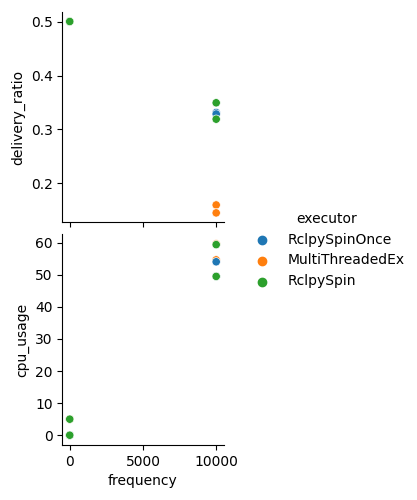
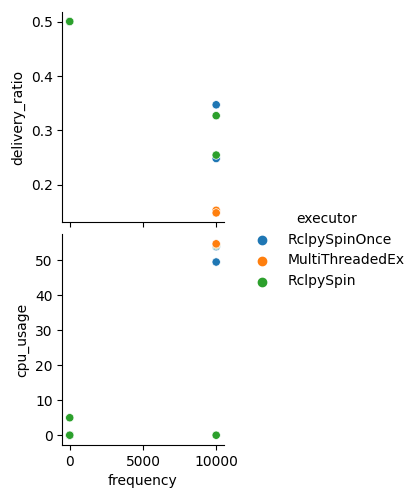
its more declerative to compare different message types

diff --git a/rclpy_listeners/instrumentation/measure.py b/rclpy_listeners/instrumentation/measure.py
@@ -12,17 +12,20 @@ import pandas as pd
 
 import rclpy
 
+from std_msgs.msg import String
+
+from custom_msgs.msg import NonStdString
+
 from rclpy_listeners.ex_multithreaded import MultiThreadedEx
 from rclpy_listeners.ex_rclpy_spin import RclpySpin
 from rclpy_listeners.ex_rclpy_spin_once import RclpySpinOnce
-from rclpy_listeners.subsc_custom_msg import CustomMsgSubscriber
-from rclpy_listeners.subsc_std_msg import StdMsgSubscriber
+from rclpy_listeners.subscriber_thread import Subscriber
 
 import seaborn as sns
 
 
-def run_listener(duration_s, args=None):
-    thread_listener = RclpySpin(StdMsgSubscriber, args=args)
+def run_listener(duration_s, MessageType, args=None):
+    thread_listener = RclpySpin(MessageType, args=args)
     thread_listener.start()
     time.sleep(duration_s)
     n_messages_received = thread_listener.get_received_messages()
@@ -33,31 +36,34 @@ def run_listener(duration_s, args=None):
     return n_messages_received
 
 
-def drain_queue(duration_s, args=None):
-    n_messages_received = run_listener(duration_s, args)
+def drain_queue(duration_s, MessageType, args=None):
+    n_messages_received = run_listener(duration_s, MessageType, args)
     while n_messages_received:
-        n_messages_received = run_listener(duration_s, args)
+        n_messages_received = run_listener(duration_s, MessageType, args)
     time.sleep(.1)
 
 
-def make_measurement(duration_s, rate_hz, Exec, Sub, args=None):
+def make_measurement(duration_s, rate_hz, Exec, MessageType, args=None):
     n_msgs_expected = duration_s * rate_hz
     PUBLISHER_RATIO = 2
     # PUBLISHER_RATIO x in case of loss
     n_msgs_send = PUBLISHER_RATIO * n_msgs_expected
-    if Sub == StdMsgSubscriber:
+    if MessageType == String:
         msg_type = 'std_msgs/msg/String'
-    elif Sub == CustomMsgSubscriber:
+    elif MessageType == NonStdString:
         msg_type = 'custom_msgs/msg/NonStdString'
     else:
         raise NotImplementedError
-    pub_command = f'ros2 topic pub -t {n_msgs_send} -w 0 -r {rate_hz} -p 0 /topic {msg_type}'
+    pub_command = (
+        f'ros2 topic pub -t {n_msgs_send} -w 0 -r {rate_hz} -p 0 ' 
+        f'/topic {msg_type}')
     print(f'{pub_command=}')
     process_pub = subprocess.Popen(
-        f'bash -c "source /opt/ros/{os.environ["ROS_DISTRO"]}/setup.bash; {pub_command}"',
+        f'bash -c "source /opt/ros/{os.environ["ROS_DISTRO"]}/setup.bash; '
+        f'{pub_command}"',
         shell=True)
     time.sleep(.1)
-    thread_listener = Exec(Sub, args=args)
+    thread_listener = Exec(MessageType, args=args)
     thread_listener.start()
     time.sleep(duration_s / 3)
     cpu_usage = thread_listener.get_cpu_usage()
@@ -84,7 +90,8 @@ def experiment(args=None):
     duration = 2
     drain_duration = duration * 2
     df = pd.DataFrame(columns=[
-        'frequency', 'trial', 'executor', 'subscriber', 'delivery_ratio', 'cpu_usage'])
+        'frequency', 'trial', 'executor', 
+        'message_type', 'delivery_ratio', 'cpu_usage'])
 
     # experiment params
     # frequencies = np.logspace(start=0, stop=4, num=5, dtype=int)
@@ -92,28 +99,34 @@ def experiment(args=None):
     # n_trials = 3
     n_trials = 1
     executors = [RclpySpin, RclpySpinOnce, MultiThreadedEx]
-    subscribers = [CustomMsgSubscriber, StdMsgSubscriber]
+    message_types = [String, NonStdString]
 
     # experiment indexing
     experiments = dict(
-        enumerate(itertools.product(frequencies, range(n_trials), executors, subscribers))
+        enumerate(itertools.product(
+            frequencies, 
+            range(n_trials), 
+            executors, 
+            message_types
+        ))
     )
     order = list(experiments.keys())
     random.shuffle(order)
 
     # experiment
     start_overall = time.time()
-    for t, (frequency, trial, Exec, Sub) in enumerate(experiments[i] for i in order):
-        print(f'{t=} / {len(frequencies) * n_trials * len(executors)}')
+    for t, (frequency, trial, Exec, MessageType
+            ) in enumerate(experiments[i] for i in order):
+        print(f'{t=} / {len(experiments)}')
         delivery_ratio, cpu_usage = make_measurement(
-            duration, frequency, Exec, Sub, args=args)
-        drain_queue(drain_duration, args=args)
-        drain_queue(drain_duration, args=args)
+            duration, frequency, Exec, MessageType, args=args)
+        drain_queue(drain_duration, MessageType, args=args)
+        drain_queue(drain_duration, MessageType, args=args)
         df = pd.concat([df, pd.DataFrame({
             'frequency': [frequency],
             'trial': [trial],
             'executor': [Exec.__name__],
-            'subscriber': [Sub.__name__],
+            'message_type': [MessageType.__name__],
             'delivery_ratio': [delivery_ratio],
             'cpu_usage': [cpu_usage]})], ignore_index=True)
 
@@ -124,7 +137,7 @@ def experiment(args=None):
 
 def plot():
     df = pd.read_csv('data.csv')
-    _pairplot(df, 'subscriber')
+    _pairplot(df, 'message_type')
     _pairplot(df, 'executor')
 
 
@@ -140,5 +153,5 @@ def _pairplot(df, hue):
 
 
 def main(args=None):
-    # experiment(args=args)
+    experiment(args=args)
     plot()

diff --git a/rclpy_listeners/rclpy_listeners/subscriber_thread.py b/rclpy_listeners/rclpy_listeners/subscriber_thread.py
@@ -2,13 +2,15 @@ import threading
 import time
 import psutil
 
+from rclpy.node import Node
+
 
 class SubscriberThread(threading.Thread):
 
-    def __init__(self, Sub, args=None):
+    def __init__(self, MessageType, args=None):
         super(SubscriberThread, self).__init__()
         self._stop_event = threading.Event()
-        self.Sub = Sub
+        self.MessageType = MessageType
         self._args = args
         self.subscriber = None
 
@@ -28,3 +30,20 @@ class SubscriberThread(threading.Thread):
 
     def stopped(self):
         return self._stop_event.is_set()
+    
+
+class Subscriber(Node):
+
+    def __init__(self, MessageType):
+        super().__init__('subscriber')
+        self.subscription = self.create_subscription(
+            MessageType,
+            'topic',
+            self.listener_callback,
+            10)
+        self.subscription  # prevent unused variable warning
+        self.received_messages = 0
+
+    def listener_callback(self, _):
+        self.received_messages += 1
+        # print(f'{self.received_messages=}')

diff --git a/rclpy_listeners/rclpy_listeners/ex_multithreaded.py b/rclpy_listeners/rclpy_listeners/ex_multithreaded.py
@@ -1,7 +1,7 @@
 import rclpy
 from rclpy.executors import MultiThreadedExecutor
 
-from rclpy_listeners.subscriber_thread import SubscriberThread
+from rclpy_listeners.subscriber_thread import SubscriberThread, Subscriber
 
 
 class MultiThreadedEx(SubscriberThread):
@@ -9,7 +9,8 @@ class MultiThreadedEx(SubscriberThread):
     def run(self):
         rclpy.init(args=self._args, context=None)
 
-        self.subscriber = self.Sub()
+        self.subscriber = Subscriber(self.MessageType)
+
         executor = MultiThreadedExecutor()
         executor.add_node(self.subscriber)
         executor.spin()

diff --git a/rclpy_listeners/rclpy_listeners/ex_rclpy_spin_once.py b/rclpy_listeners/rclpy_listeners/ex_rclpy_spin_once.py
@@ -1,6 +1,6 @@
 import rclpy
 
-from rclpy_listeners.subscriber_thread import SubscriberThread
+from rclpy_listeners.subscriber_thread import SubscriberThread, Subscriber
 
 
 class RclpySpinOnce(SubscriberThread):
@@ -8,7 +8,7 @@ class RclpySpinOnce(SubscriberThread):
     def run(self):
         rclpy.init(args=self._args, context=None)
 
-        self.subscriber = self.Sub()
+        self.subscriber = Subscriber(self.MessageType)
 
         while rclpy.ok():
             rclpy.spin_once(self.subscriber)

diff --git a/rclpy_listeners/rclpy_listeners/ex_rclpy_spin.py b/rclpy_listeners/rclpy_listeners/ex_rclpy_spin.py
@@ -1,6 +1,6 @@
 import rclpy
 
-from rclpy_listeners.subscriber_thread import SubscriberThread
+from rclpy_listeners.subscriber_thread import SubscriberThread, Subscriber
 
 
 class RclpySpin(SubscriberThread):
@@ -8,6 +8,6 @@ class RclpySpin(SubscriberThread):
     def run(self):
         rclpy.init(args=self._args, context=None)
 
-        self.subscriber = self.Sub()
+        self.subscriber = Subscriber(self.MessageType)
 
         rclpy.spin(self.subscriber)

diff --git a/rclpy_listeners/rclpy_listeners/subsc_custom_msg.py b/rclpy_listeners/rclpy_listeners/subsc_custom_msg.py
@@ -4,8 +4,6 @@ import psutil
 
 from rclpy.node import Node
 
-from custom_msgs.msg import NonStdString
-
 
 class CustomMsgSubscriber(Node):
 
